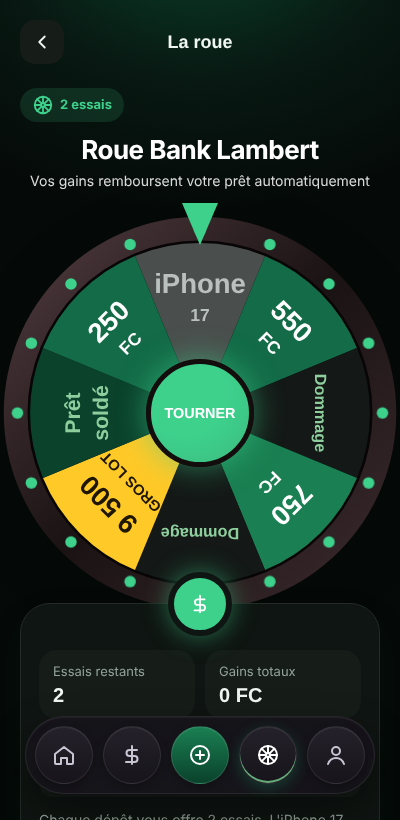
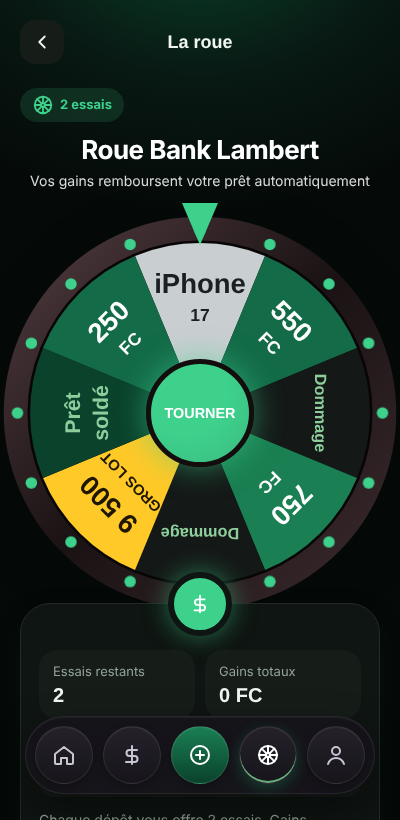
Roue : chances iPhone 1 %, gros lot 2 %, prêt soldé 1 %, le reste partagé ; iPhone gagnable et suivi des gagnants dans l'admin
Claude-Session: https://claude.ai/code/session_0119HWbBpeydAuNRumKf8FMb

Changed region(s): [[0.33, 0.2744, 0.66, 0.4573], [0.69, 0.9756, 0.78, 1.0]]

diff --git a/index.html b/index.html
@@ -641,8 +641,8 @@ S.loanReq=R?{amount:+R.amount,weeks:R.weeks,total:+R.total,op:R.op}:null;const D
 async function loadAdmin(){const[ac,dp,lo,rp]=await Promise.all([sb.from('bl_accounts').select('*').order('created_at',{ascending:false}),sb.from('bl_deposits').select('*').order('created_at',{ascending:false}).limit(300),sb.from('bl_loans').select('*').in('status',['demande','en_cours']).order('created_at'),sb.from('bl_repays').select('*').eq('status','attente').order('created_at')]);
 const acc=ac.data||[],paths=[];acc.forEach(a=>paths.push(a.uid+'/selfie.jpg',a.uid+'/piece.jpg'));const urls={};
 if(paths.length){try{const r=await sb.storage.from('bl-kyc').createSignedUrls(paths,3600);(r.data||[]).forEach(x=>{if(x.signedUrl)urls[x.path]=x.signedUrl})}catch(e){}}
-const DA=dp.data||[];const pp=DA.filter(d=>d.status==='attente'&&d.proof).map(d=>d.proof);if(pp.length){try{const r=await sb.storage.from('bl-proofs').createSignedUrls(pp,3600);(r.data||[]).forEach(x=>{if(x.signedUrl)urls['proof:'+x.path]=x.signedUrl})}catch(e){}}
-ui.ad={acc,urls,depAll:DA,dep:DA.filter(d=>d.status==='attente').reverse(),loans:lo.data||[],rep:rp.data||[]};ui.adErr=ac.error?errMsg(ac.error):''}
+const DA=dp.data||[];let PZ=[];try{const z=await sb.from('bl_prizes').select('*').eq('delivered',false).order('created_at');PZ=z.data||[]}catch(e){}const pp=DA.filter(d=>d.status==='attente'&&d.proof).map(d=>d.proof);if(pp.length){try{const r=await sb.storage.from('bl-proofs').createSignedUrls(pp,3600);(r.data||[]).forEach(x=>{if(x.signedUrl)urls['proof:'+x.path]=x.signedUrl})}catch(e){}}
+ui.ad={acc,urls,prizes:PZ,depAll:DA,dep:DA.filter(d=>d.status==='attente').reverse(),loans:lo.data||[],rep:rp.data||[]};ui.adErr=ac.error?errMsg(ac.error):''}
 let PREF={};try{PREF=JSON.parse(localStorage.getItem('bl-pref'))||{}}catch(e){}
 const setPref=(k,v)=>{PREF[k]=v;try{localStorage.setItem('bl-pref',JSON.stringify(PREF))}catch(e){}};
 const applyTheme=()=>{const t=PREF.theme||'dark';if(t==='light'||t==='dark')document.documentElement.dataset.theme=t;else delete document.documentElement.dataset.theme};applyTheme();
@@ -713,14 +713,14 @@ const SLIDES=[
 {k:'Emprunter',t:'Le triple de votre épargne',p:"10&#8239;000&nbsp;FC déposés, 30&#8239;000&nbsp;FC à emprunter. 10&nbsp;% d'intérêt pour 3&nbsp;semaines, 15&nbsp;% pour un mois."},
 {k:'Grandir',t:'Faites grandir votre commerce',p:"Remboursez en 3 semaines ou en un mois et gagnez des remboursements à la roue."}];
 const CITY=[[0,150,34],[30,110,40],[74,165,30],[100,95,46],[150,140,34],[186,120,40],[230,160,28],[254,88,44],[302,130,36],[340,105,42],[380,150,30]].map(([x,y,w])=>`<rect x="${x}" y="${y}" width="${w}" height="${230-y}" rx="3"/>`).join('');
-const SEGS=[{l:'iPhone 17',t:'phone',w:0},{l:'550',t:'amt',v:550,w:16},{l:'Dommage',t:'none',w:25},{l:'750',t:'amt',v:750,w:10},{l:'Dommage',t:'none',w:25},{l:'9 500',t:'amt',v:9500,w:4,big:1},{l:'Prêt soldé',t:'solde',w:2},{l:'250',t:'amt',v:250,w:18}];
-const SEGC=[['#4A4F4D','#B9C0BD'],['#136B47','#FFFFFF'],['#141917','#8ECE9D'],['#1A7F52','#FFFFFF'],['#141917','#8ECE9D'],['#FFC928','#1F1600'],['#0A422C','#8ECE9D'],['#136B47','#FFFFFF']];
+const SEGS=[{l:'iPhone 17',t:'phone',w:1},{l:'550',t:'amt',v:550,w:19.2},{l:'Dommage',t:'none',w:19.2},{l:'750',t:'amt',v:750,w:19.2},{l:'Dommage',t:'none',w:19.2},{l:'9 500',t:'amt',v:9500,w:2,big:1},{l:'Prêt soldé',t:'solde',w:1},{l:'250',t:'amt',v:250,w:19.2}];
+const SEGC=[['#C9CED1','#1B1F22'],['#136B47','#FFFFFF'],['#141917','#8ECE9D'],['#1A7F52','#FFFFFF'],['#141917','#8ECE9D'],['#FFC928','#1F1600'],['#0A422C','#8ECE9D'],['#136B47','#FFFFFF']];
 function wheelSvg(){const R=136,pt=a=>[Math.cos(a)*R,Math.sin(a)*R].map(v=>v.toFixed(1)).join(' ');
 const seg=SEGS.map((g,k)=>{const a0=(k*45-112.5)*Math.PI/180,a1=(k*45-67.5)*Math.PI/180,[bg,fg]=SEGC[k];const two=g.t==='amt'||g.t==='solde'||g.t==='phone';const l1=g.t==='solde'?'Prêt':g.t==='phone'?'iPhone':g.l,l2=g.t==='solde'?'soldé':g.t==='phone'?'17':g.big?'GROS LOT':'FC';
 return`<path d="M0 0L${pt(a0)}A${R} ${R} 0 0 1 ${pt(a1)}Z" fill="${bg}"/><g transform="rotate(${k*45})" fill="${fg}" text-anchor="middle">${two?`<text y="-96" font-size="${g.t==='solde'?17:22}" font-weight="800">${l1}</text><text y="-74" font-size="${g.t==='solde'?17:g.big?12:14}" font-weight="700">${l2}</text>`:`<text y="-92" font-size="13" font-weight="800">${g.l}</text>`}</g>`}).join('');
 const bulbs=Array.from({length:16},(_,k)=>{const a=k*22.5*Math.PI/180;return`<circle class="bulb" style="--k:${k%2}" cx="${(Math.sin(a)*146).toFixed(1)}" cy="${(-Math.cos(a)*146).toFixed(1)}" r="4.6"/>`}).join('');
-return`<svg class="wheel" viewBox="-160 -160 320 320" role="img" aria-label="Roue avec 250, 550 et 750 FC, un gros lot de 9 500 FC, un prêt soldé, un iPhone 17 (bientôt) et des cases Dommage"><defs><linearGradient id="rim" x1="0" y1="0" x2="1" y2="1"><stop offset="0" stop-color="#543E42"/><stop offset=".5" stop-color="#1A1213"/><stop offset="1" stop-color="#3D2C2F"/></linearGradient></defs><circle r="157" fill="url(#rim)"/><circle r="138" fill="#080506"/><g id="wg" style="transform:rotate(${ui.rot}deg)" font-family="Plus Jakarta Sans,sans-serif">${seg}</g>${bulbs}</svg>`}
-function prize(g){if(g.t==='none'||g.t==='phone')return'Pas de chance cette fois.';
+return`<svg class="wheel" viewBox="-160 -160 320 320" role="img" aria-label="Roue avec 250, 550 et 750 FC, un gros lot de 9 500 FC, un prêt soldé, un iPhone 17 et des cases Dommage"><defs><linearGradient id="rim" x1="0" y1="0" x2="1" y2="1"><stop offset="0" stop-color="#543E42"/><stop offset=".5" stop-color="#1A1213"/><stop offset="1" stop-color="#3D2C2F"/></linearGradient></defs><circle r="157" fill="url(#rim)"/><circle r="138" fill="#080506"/><g id="wg" style="transform:rotate(${ui.rot}deg)" font-family="Plus Jakarta Sans,sans-serif">${seg}</g>${bulbs}</svg>`}
+function prize(g){if(g.t==='phone')return'Vous avez gagné un iPhone 17 ! Bank Lambert vous contacte sur WhatsApp.';if(g.t==='none')return'Pas de chance cette fois.';
 if(S.loan){const L=S.loan,rest=L.total-L.paid;if(g.t==='solde'){L.paid=L.total;S.won=(S.won||0)+rest;addH('Roue · prêt soldé',rest,0);S.loan=null;return`Votre prêt est soldé ! ${fc(rest)} remboursés par la roue.`}
 const v=Math.min(g.v,rest);L.paid+=v;S.won=(S.won||0)+v;addH('Roue · remboursement',v,0);if(L.paid>=L.total){S.loan=null;return`${fc(v)} remboursés : votre prêt est soldé !`}return`${fc(v)} remboursés automatiquement. Il reste ${fc(L.total-L.paid)}.`}
 if(g.t==='solde'){S.free=true;return'Votre prochain prêt sera soldé automatiquement par la roue.'}
@@ -868,7 +868,7 @@ ${r?r.win?`<div class="congrats" role="status"><span class="rl">Félicitations !
 <div class="gpanel"><span class="gtab">${ic('coin',24)}</span>
 <div class="g2"><div class="mini"><small>Essais restants</small><b>${sp}</b></div><div class="mini"><small>Gains totaux</small><b>${fc(S.won||0)}</b></div></div>
 ${S.loan?`<div class="note">${ic('coin',20)}<span>Prêt en cours : il reste <b>${fc(S.loan.total-S.loan.paid)}</b> à rembourser.</span></div>`:`<div class="note">${ic('coin',20)}<span>Pas de prêt en cours : vos gains sont gardés pour votre prochain prêt.</span></div>`}
-<p style="font-size:14px;color:var(--mute)">Chaque dépôt vous offre 2 essais. L'iPhone 17 (case grise) arrive bientôt. Gains possibles : 250, 550 ou 750 FC, le gros lot de 9 500 FC, ou « Prêt soldé ».</p>
+<p style="font-size:14px;color:var(--mute)">Chaque dépôt vous offre 2 essais. Gains possibles : 250, 550 ou 750 FC, un iPhone 17, le gros lot de 9 500 FC, ou « Prêt soldé ».</p>
 ${sp?'':`<button class="btn" data-go="deposit">Déposer pour gagner 2 essais</button>`}${OWNER?`<button class="btn alt sm" data-act="moreSpins">Ajouter 2 essais (test administrateur)</button>`:''}
 </div></section>`},
 
@@ -911,7 +911,7 @@ else body=`<div class="card"><h2>Mes numéros mobile money</h2><p style="font-si
 return head+`<div class="adhero"><small>Épargne totale des clients <span style="opacity:.6">👁</span></small><div class="adbig num">${(()=>{const t=num(D.acc.reduce((a,c)=>a+n(c.savings),0));return t})()}<span> FC</span></div></div>
 <div class="adwrap"><div class="adcard"><span>Mes clients ›</span><span>•••• ${D.acc.length}</span><span class="dots"><i></i><i></i></span></div>
 <div class="adacts">${[['id','card','Identités',kq.length],['dep','down','Dépôts',D.dep.length],['pret','coin','Prêts',lq.length+D.rep.length],['cli','user','Clients',0],['set','shield','Réglages',0]].map(t=>`<button data-act="atab" data-v="${t[0]}" aria-selected="${at===t[0]}"><span class="adc">${ic(t[1],22)}${t[3]?`<em>${t[3]}</em>`:''}</span><b>${t[2]}</b></button>`).join('')}</div></div>
-${cnt?`<div class="adban">${ic('clock',22)}<div><b>${cnt} opération${cnt>1?'s':''} à valider</b><small>Identités, dépôts, prêts et remboursements</small></div></div>`:''}
+${(D.prizes||[]).length?`<div class="adban" style="border-color:#FFC928">${ic('wheel',22)}<div><b>${D.prizes.length} iPhone 17 à remettre</b><small>${D.prizes.map(p=>{const a=who(p.uid);return`${esc(a.name)} · <a href="https://wa.me/${digits(a.wa_phone||a.phone)}" target="_blank" rel="noopener" style="color:var(--lk)">WhatsApp</a> · <button class="link" data-act="prizeDone" data-id="${p.id}" style="display:inline;padding:0">Remis ✓</button>`}).join('<br>')}</small></div></div>`:''}${cnt?`<div class="adban">${ic('clock',22)}<div><b>${cnt} opération${cnt>1?'s':''} à valider</b><small>Identités, dépôts, prêts et remboursements</small></div></div>`:''}
 <div class="adpanel">${body}</div><button class="link" data-act="adRefresh" style="align-self:center">Actualiser</button></section>`},
 
 history:()=>{const H=S.hist,sum=f=>H.filter(f).reduce((a,h)=>a+(+h.a||0),0),dep=sum(h=>h.t.startsWith('Dépôt')),pr=sum(h=>h.t.startsWith('Prêt versé')),rb=sum(h=>h.t.startsWith('Rembours')),rw=S.won||0,tot=Math.max(1,dep+pr+rb+rw),now=Date.now(),mo=H.filter(h=>h.ts&&now-h.ts<30*864e5&&h.t.startsWith('Dépôt')).reduce((a,h)=>a+(+h.a||0),0);
@@ -1005,6 +1005,7 @@ install:async()=>{if(ANDROID){const a=document.createElement('a');a.href=APK;a.d
 noinst:()=>{PREF.noinst=1;try{localStorage.setItem('bl-pref',JSON.stringify(PREF))}catch(e){}render(true)},
 kycSend:()=>{const k=ui.kf||{};if(!(k.selfie||k.selfieUp)||!(k.piece||k.pieceUp))return;process('Envoi de vos photos…',async()=>{for(const n of ['selfie','piece']){if(!k[n+'Up'])await kycUp(n,k[n])}await rpc('bl_kyc_submit');ui.kf={};ui.kchk=0;await load();return{t:'Photos envoyées',m:'Bank Lambert vérifie votre identité. Vous pouvez déjà envoyer votre demande de prêt.',b:'Continuer',go:'borrow'}})},
 atab:el=>{ui.at=el.dataset.v;render(true)},
+prizeDone:el=>{process('Enregistrement…',async()=>{await rpc('bl_admin_prize_delivered',{p_id:el.dataset.id});await loadAdmin();return{t:'iPhone marqué comme remis',m:'',b:'OK'}})},
 adRefresh:()=>{ui.ad=null;render(true);loadAdmin().then(()=>render(true))},
 decide:el=>{const k=el.dataset.k,id=el.dataset.id,ok=el.dataset.ok==='1',fn={dep:'bl_admin_decide_deposit',loan:'bl_admin_decide_loan',rep:'bl_admin_decide_repay'}[k];el.disabled=true;el.textContent='…';rpc(fn,{p_id:id,p_ok:ok}).then(()=>Promise.all([loadAdmin(),load()])).then(()=>render(true),e=>{alertBox(errMsg(e));loadAdmin().then(()=>render(true))})},
 claim:()=>{rpc('bl_claim_admin').then(load).then(()=>{render(true)},e=>alertBox(errMsg(e)))},
